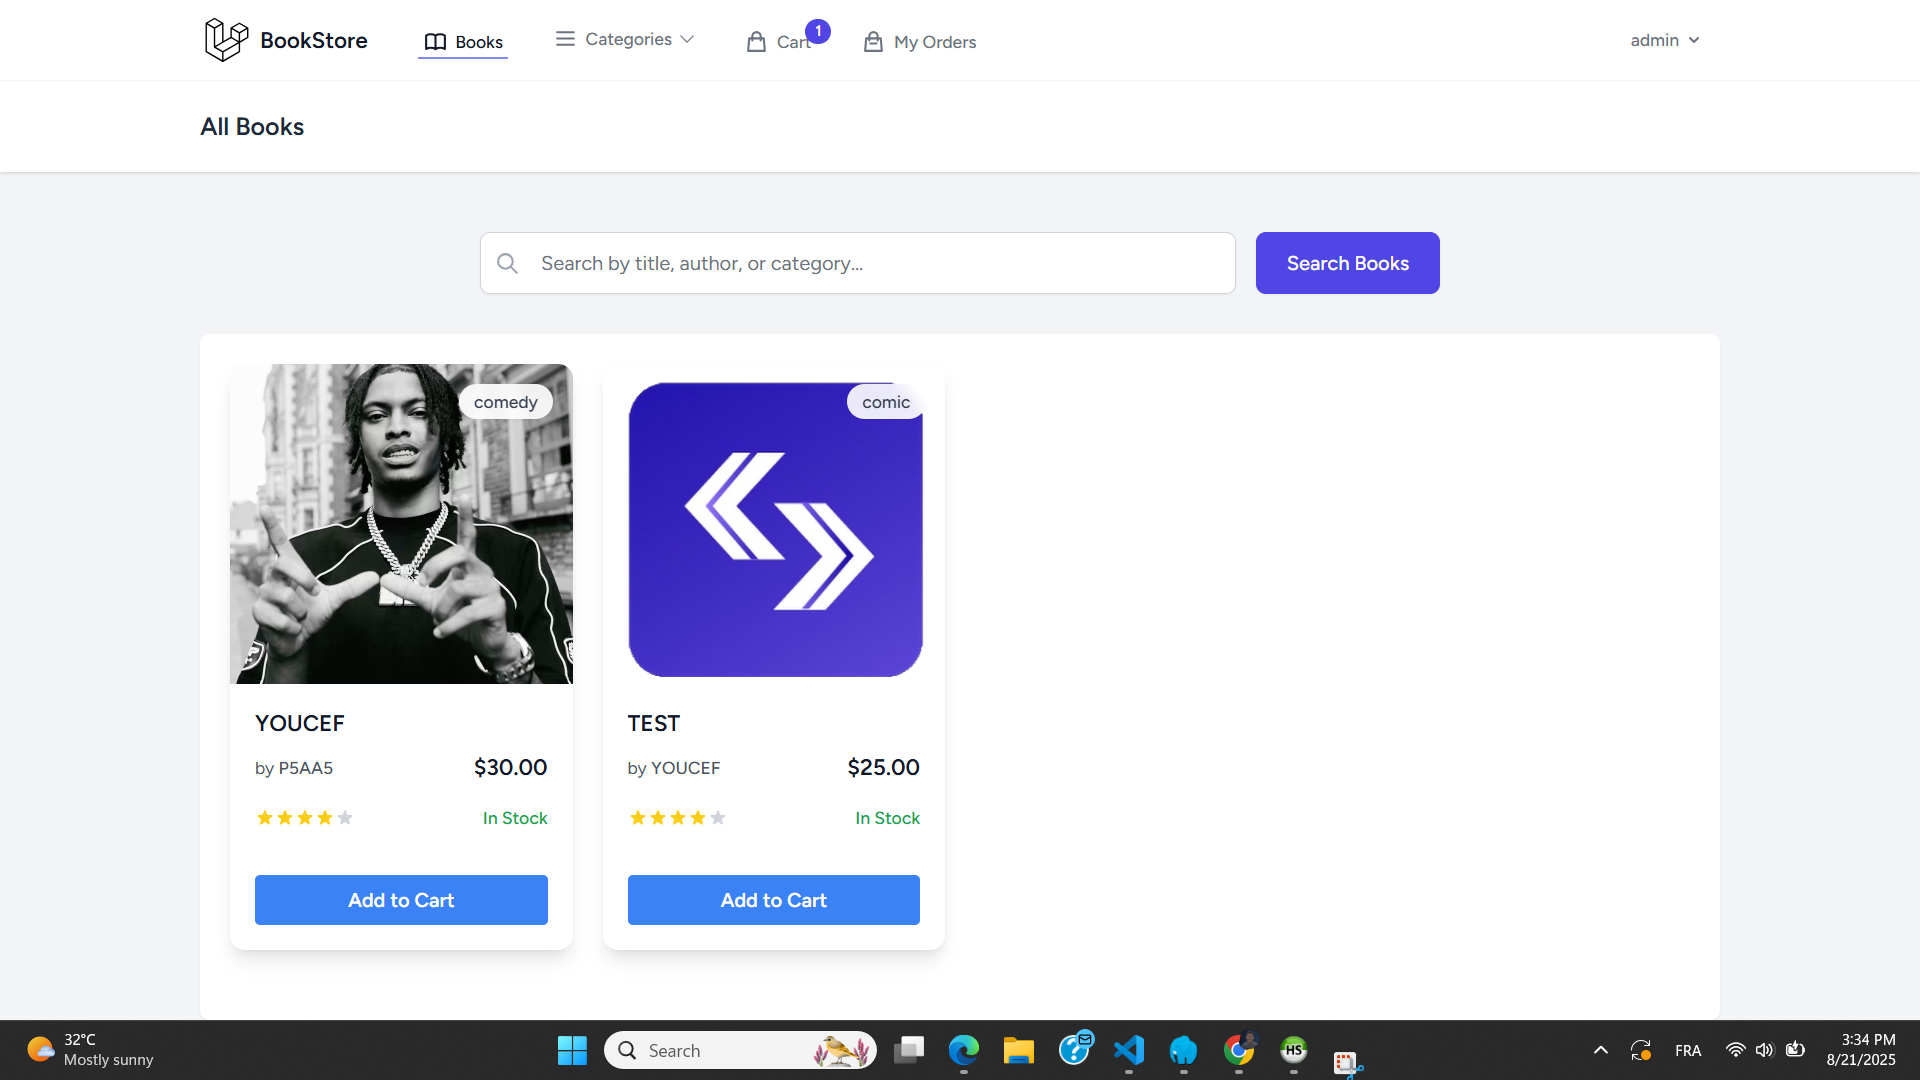
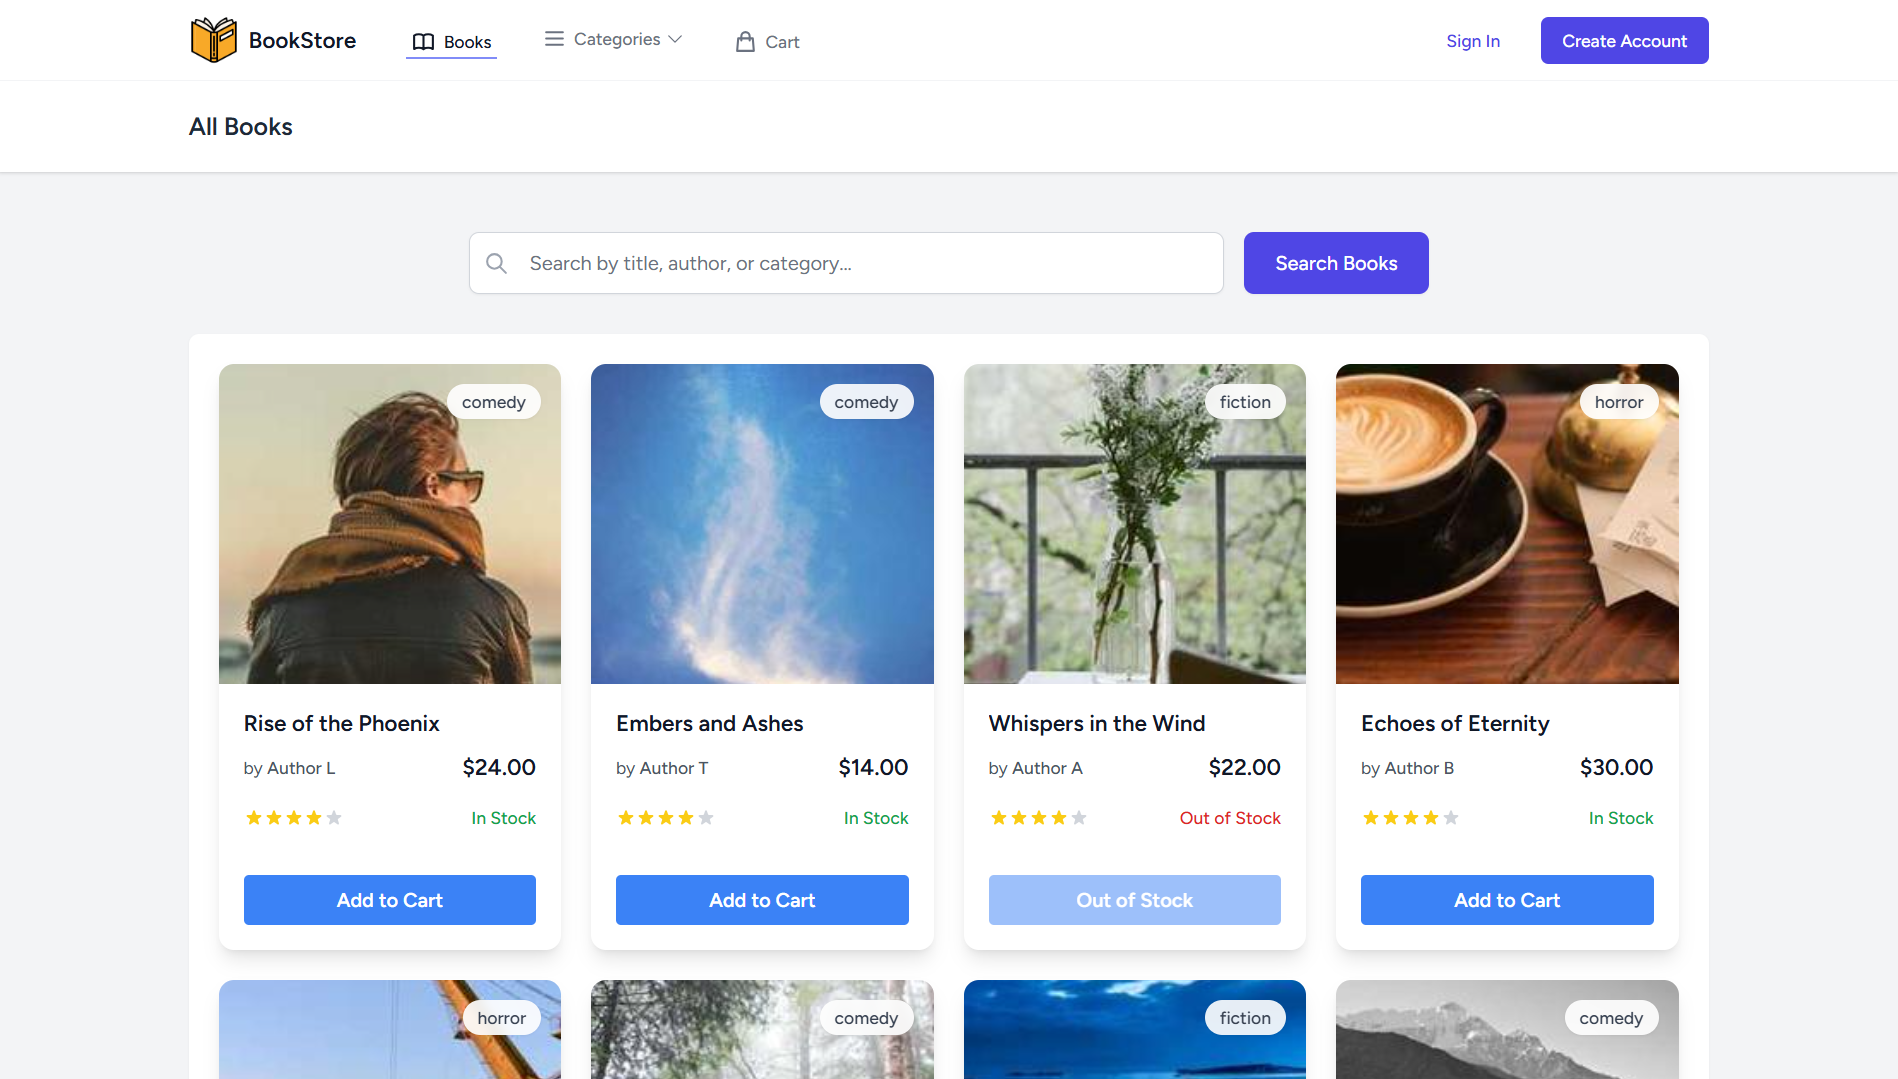
book seeder for testing

diff --git a/database/seeders/BookSeeder.php b/database/seeders/BookSeeder.php
@@ -1,0 +1,56 @@
+<?php
+
+namespace Database\Seeders;
+
+use Illuminate\Database\Seeder;
+use Illuminate\Support\Str;
+use Illuminate\Support\Facades\DB;
+
+class BookSeeder extends Seeder
+{
+    public function run(): void
+    {
+        $titles = [
+            'Whispers in the Wind',
+            'Echoes of Eternity',
+            'The Last Voyage',
+            'Crimson Skies',
+            'Tales from the Riverbank',
+            'Shattered Dreams',
+            'City of Lanterns',
+            'Paths Untold',
+            'Garden of Shadows',
+            'Beneath the Ice',
+            'Threads of Fate',
+            'Rise of the Phoenix',
+            'The Forgotten Realm',
+            'Winds of Change',
+            'Labyrinth of Souls',
+            'Moonlight Sonata',
+            'Voices of the Deep',
+            'Crown of Ash',
+            'Starlit Journey',
+            'Embers and Ashes'
+        ];
+
+        $books = [];
+
+        foreach ($titles as $index => $title) {
+            $books[] = [
+                'title' => $title,
+                'slug' => Str::slug($title),
+                'category_id' => rand(1, 3),
+                'author' => 'Author ' . chr(65 + $index),
+                'description' => "An engaging story of {$title} filled with mystery, emotion, and unforgettable moments.",
+                'isbn' => '9780000000' . str_pad($index + 1, 4, '0', STR_PAD_LEFT),
+                'cover_image' => "https://picsum.photos/seed/book{$index}/200/300",
+                'price' => rand(10, 30),
+                'stock' => rand(0, 20),
+                'created_at' => now(),
+                'updated_at' => now(),
+            ];
+        }
+
+        DB::table('books')->insert($books);
+    }
+}

diff --git a/resources/views/layouts/navigation.blade.php b/resources/views/layouts/navigation.blade.php
@@ -7,10 +7,11 @@
                 <!-- Logo -->
                 <div class="flex-shrink-0 flex items-center">
                     <a href="{{ route('home') }}" class="flex items-center space-x-2">
-                        <x-application-logo class="block h-10 w-auto" />
+                        <img src="{{ asset('book-icon.png') }}" alt="Book Icon" class="h-10 w-auto">
                         <span class="hidden md:block text-lg font-bold text-gray-900">BookStore</span>
                     </a>
                 </div>
+
 
                 <!-- Navigation Links -->
                 <div class="hidden sm:ml-10 sm:flex sm:space-x-8">
